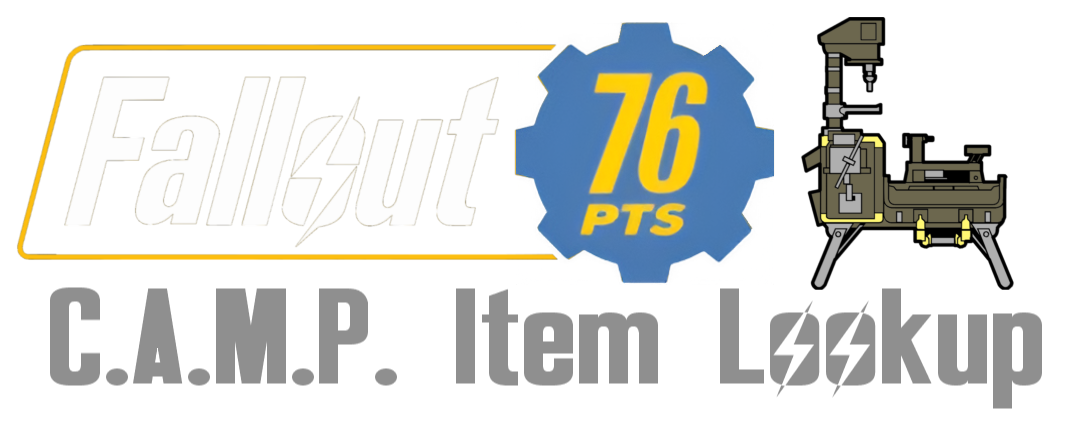
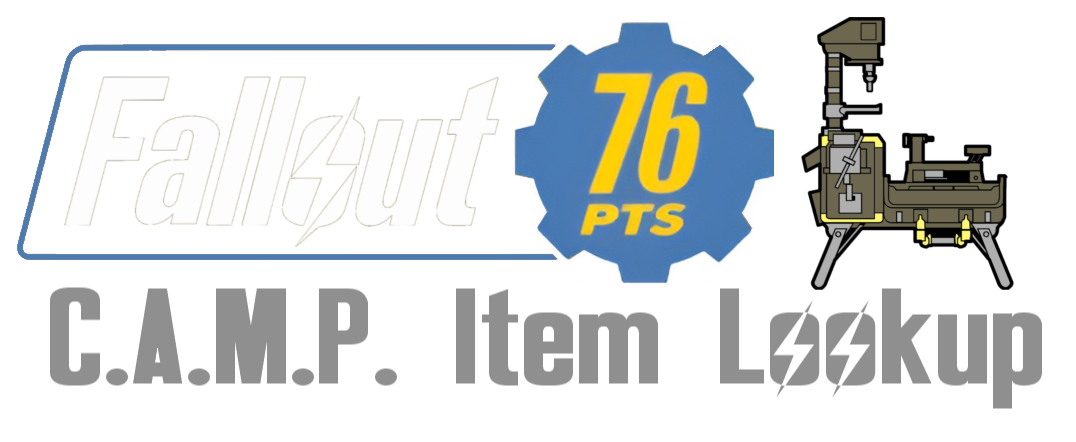
Update PTS appearance

Changed region(s): [[0.0, 0.4412, 0.5214, 0.5882], [0.0613, 0.0882, 0.5214, 0.1471], [0.0307, 0.1471, 0.0613, 0.4412]]

diff --git a/CampCategorySearch-PTS/Index.html b/CampCategorySearch-PTS/Index.html
@@ -12,7 +12,7 @@
   <title>Fallout 76 C.A.M.P. Item Lookup</title>
   <style>
     :root {
-      --accent: #ffc00f;
+      --accent: #2596be;
       --bg: #1a1a1a;
       --card-bg: #2a2a2a;
       --text: #e0e0e0;
